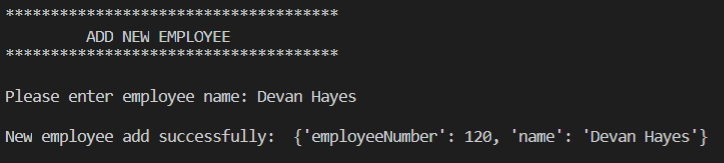
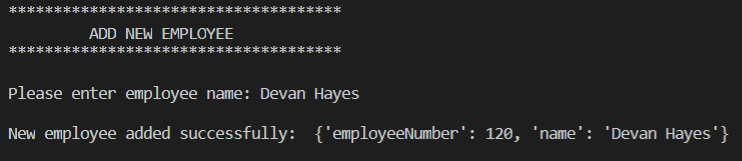
Fix validate_employee_number_count

diff --git a/run.py b/run.py
@@ -116,7 +116,7 @@ def employee_input():
     while True:
 
         employee_number = input("Please enter you employee number: ")
-        validate_employee_number_count(employee_number)
+        
 
         if validate_employee_number_count(employee_number):
             print("Employee number is valid!")
@@ -136,7 +136,7 @@ def validate_employee_number_count(values):
                 f"3 values are required, you provided {len(values)}"
             )
     except ValueError as e:
-        print(f"Invalid entry: {e}, please try again\n ")
+        print(f"\nInvalid entry: {e}, please try again\n ")
         return False
 
     return True
@@ -273,7 +273,7 @@ def add_new_employee():
     entering_name = input("Please enter employee name: ")
     newEmployeedAdded = newEmployee(add_one_to_employee_number, entering_name)
     newEmployeedAdded.addingEmployeeDetails()
-    print("\nNew employee add successfully: ", employeeList[-1])
+    print("\nNew employee added successfully: ", employeeList[-1])
     main()
 
 
